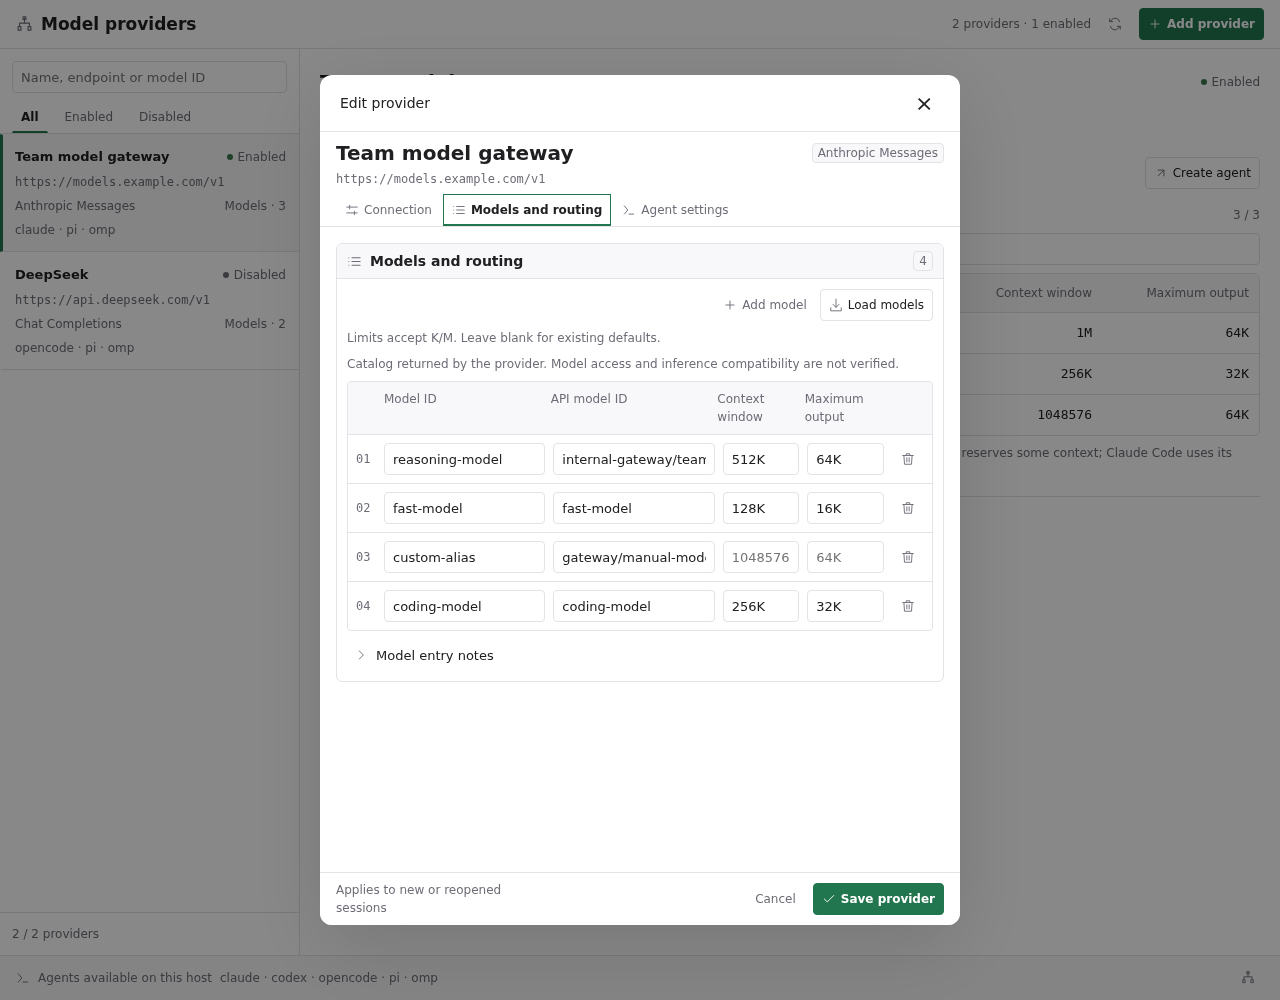
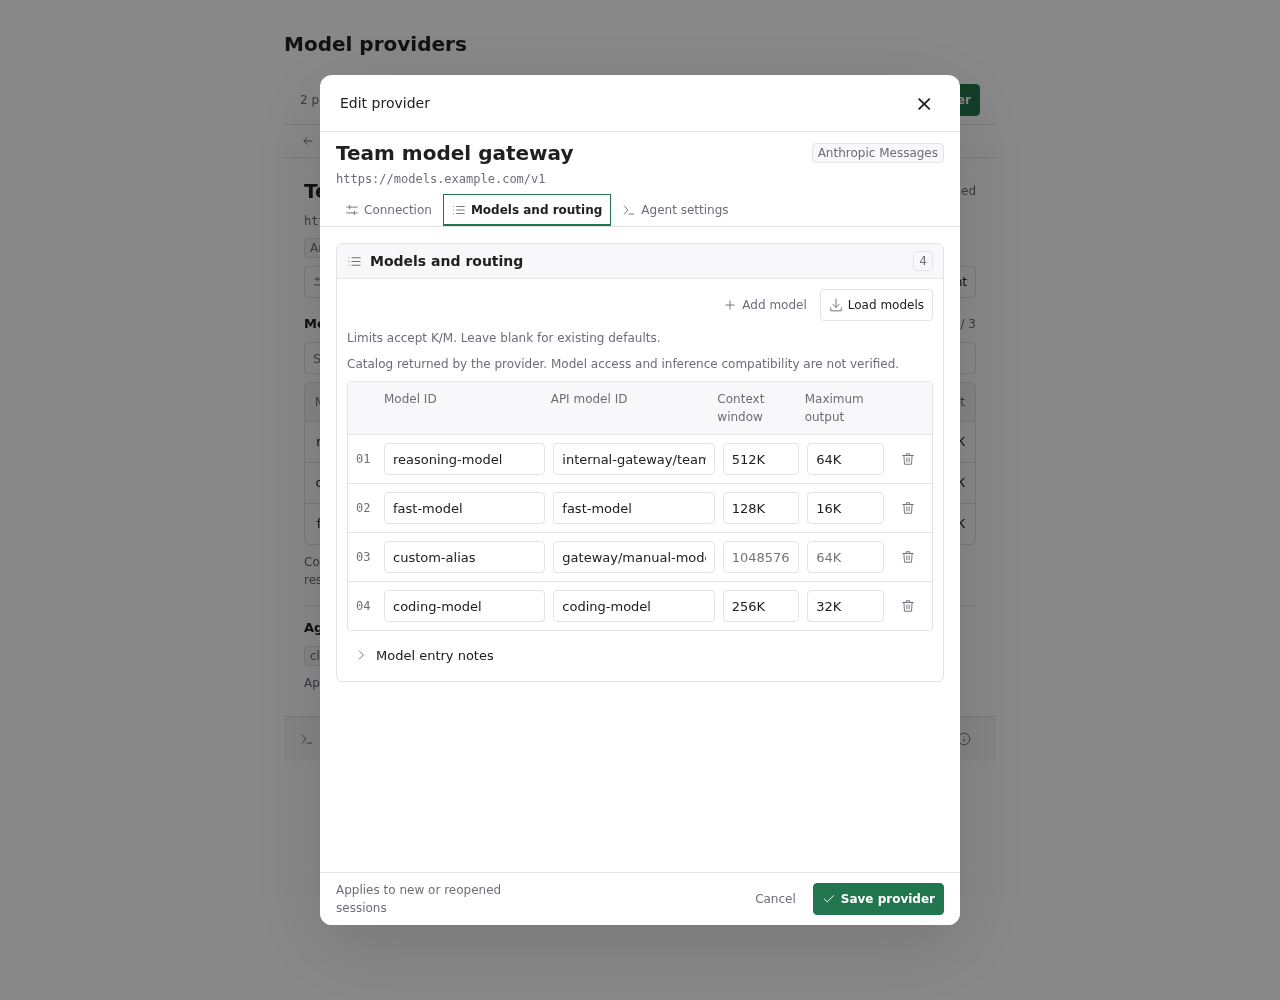
feat: move model providers into settings

diff --git a/client/providers.tsx b/client/providers.tsx
@@ -1,6 +1,6 @@
 import { useState } from "react";
-import { ActivityIndicator, ScrollView, Text, View, useWindowDimensions } from "react-native";
-import type { PluginScreenProps } from "@getpaseo/plugin/client";
+import { ActivityIndicator, Text, View } from "react-native";
+import type { PluginSurfaceProps } from "@getpaseo/plugin/client";
 import { usePaseo, useRpc } from "@getpaseo/plugin/client";
 import { Icon } from "@getpaseo/plugin/client/react-native";
 import { useQuery } from "@tanstack/react-query";
@@ -14,11 +14,11 @@ import { Action, Field, workbenchStyles } from "./ui";
 import { translate } from "./messages";
 import { useSystemLanguage } from "./language";
 
-export function ProvidersScreen({ theme, layout, navigation }: PluginScreenProps) {
+export function ProvidersScreen({ theme, layout, navigation }: PluginSurfaceProps) {
   const language = useSystemLanguage();
   const t = (message: string) => translate(message, language);
   const styles = workbenchStyles(theme), c = theme.colors;
-  const { width } = useWindowDimensions();
+  const [width, setWidth] = useState(0);
   const split = !layout.compact && width >= 1000;
   const paseo = usePaseo();
   const load = useRpc(stateRpc), probe = useRpc(probeRpc);
@@ -48,11 +48,9 @@ export function ProvidersScreen({ theme, layout, navigation }: PluginScreenProps
     finally { setTesting(current => { const next = { ...current }; delete next[item.id]; return next; }); }
   }
   const showList = split || !selected;
-  return <View style={styles.page}>
+  return <View onLayout={event => setWidth(event.nativeEvent.layout.width)} style={{ minWidth: 0, backgroundColor: c.surface0 }}>
     <View style={{ ...styles.toolbar, flexWrap: "nowrap", paddingHorizontal: layout.compact ? 12 : 16, paddingVertical: 8, borderBottomWidth: 1, borderColor: c.border }}>
-      <Icon name="Network" size={17} color={c.foregroundMuted} />
-      <Text accessibilityRole="header" numberOfLines={1} style={{ ...styles.text, fontWeight: "700", fontSize: 17, flex: 1 }}>{t("模型供应商")}</Text>
-      {!layout.compact && state.data ? <Text style={styles.muted}>{suppliers.length} {t("个供应商 ·")} {suppliers.filter(item => item.enabled).length} {t("个启用")}</Text> : null}
+      {state.data ? <Text style={{ ...styles.muted, flex: 1 }}>{suppliers.length} {t("个供应商 ·")} {suppliers.filter(item => item.enabled).length} {t("个启用")}</Text> : <View style={{ flex: 1 }} />}
       <Action theme={theme} label={t("刷新")} icon="RefreshCw" iconOnly quiet disabled={state.isFetching || available.isFetching} onPress={refresh} />
       <Action theme={theme} label={t("新增供应商")} icon="Plus" primary iconOnly={layout.compact} disabled={!state.data} onPress={() => edit()} />
     </View>
@@ -61,38 +59,38 @@ export function ProvidersScreen({ theme, layout, navigation }: PluginScreenProps
       <Text style={{ ...styles.text, flex: 1 }}>{t("无法读取供应商配置")} · {t("请检查当前主机连接后重试。")}</Text>
       <Action theme={theme} label={t("重新加载")} icon="RefreshCw" disabled={state.isFetching} onPress={() => void state.refetch()} />
     </View> : null}
-    {state.isPending ? <View style={{ flex: 1, alignItems: "center", justifyContent: "center", gap: 12 }}>
+    {state.isPending ? <View style={{ padding: 24, alignItems: "center", justifyContent: "center", gap: 12 }}>
       <ActivityIndicator color={c.accent} /><Text style={styles.muted}>{t("正在读取供应商配置…")}</Text>
     </View> : null}
-    {state.data ? <View style={{ flex: 1, minHeight: 0, flexDirection: split ? "row" : "column" }}>
-      {showList ? <View style={{ width: split ? 300 : undefined, flex: split ? undefined : 1, minHeight: 0, borderRightWidth: split ? 1 : 0, borderColor: c.border }}>
+    {state.data ? <View style={{ minWidth: 0, flexDirection: split ? "row" : "column" }}>
+      {showList ? <View style={{ width: split ? 300 : undefined, minWidth: 0, borderRightWidth: split ? 1 : 0, borderColor: c.border }}>
         <View style={{ paddingHorizontal: 12, paddingTop: 12, gap: 8, borderBottomWidth: 1, borderColor: c.border }}>
           <Field theme={theme} label={t("搜索供应商")} hideLabel placeholder={t("名称、地址或模型 ID")} value={query} onChangeText={setQuery} autoCapitalize="none" autoCorrect={false} />
           <View accessibilityRole="tablist" style={styles.toolbar}>
             {([["all", "全部"], ["enabled", "已启用"], ["disabled", "已停用"]] as const).map(([id, label]) => <Action key={id} theme={theme} label={t(label)} selected={filter === id} onPress={() => setFilter(id)} />)}
           </View>
         </View>
-        <ScrollView style={{ flex: 1, minHeight: 0 }} keyboardShouldPersistTaps="handled">
+        <View>
           {visible.map(supplier => <SupplierRow key={supplier.id} theme={theme} supplier={supplier} selected={selected?.id === supplier.id} t={t} onPress={() => setSelectedId(supplier.id)} />)}
           {!visible.length ? <View style={{ padding: 16, gap: 8 }}>
             <Text accessibilityRole="header" style={{ ...styles.text, fontWeight: "600" }}>{suppliers.length ? t("没有匹配的供应商") : t("接入你的第一个模型接口")}</Text>
             <Text style={styles.muted}>{suppliers.length ? t("尝试其他关键词或切换筛选条件。") : t("点击右上方「新增供应商」，填写接口和模型，选择可接入的 Agent 即可开始。")}</Text>
           </View> : null}
-        </ScrollView>
+        </View>
         <View style={{ padding: 12, borderTopWidth: 1, borderColor: c.border }}>
           <Text style={styles.muted}>{visible.length} / {suppliers.length} {t("供应商")}</Text>
         </View>
       </View> : null}
-      {selected ? <View style={{ flex: 1, minWidth: 0, minHeight: 0 }}>
+      {selected ? <View style={{ flex: split ? 1 : undefined, minWidth: 0 }}>
         {!split ? <View style={{ ...styles.toolbar, paddingHorizontal: 8, borderBottomWidth: 1, borderColor: c.border }}>
           <Action theme={theme} label={t("返回供应商列表")} icon="ArrowLeft" quiet onPress={() => setSelectedId(null)} />
         </View> : null}
-        <ScrollView style={{ flex: 1, minHeight: 0 }} contentContainerStyle={{ padding: layout.compact ? 12 : 20, paddingBottom: 24 }}>
+        <View style={{ padding: layout.compact ? 12 : 20, paddingBottom: 24 }}>
           <View style={{ width: "100%", maxWidth: 1120, alignSelf: "center" }}>
-            <SupplierDetail key={selected.id} theme={theme} compact={layout.compact || !split} supplier={selected} t={t} testing={Boolean(testing[selected.id])} result={results[selected.id]}
+            <SupplierDetail key={selected.id} theme={theme} compact={layout.compact || width < 700} supplier={selected} t={t} testing={Boolean(testing[selected.id])} result={results[selected.id]}
               onEdit={() => edit(selected)} onTest={() => void test(selected)} onLaunch={() => setLaunch(selected)} />
           </View>
-        </ScrollView>
+        </View>
       </View> : split ? <View style={{ flex: 1, padding: 24, justifyContent: "center", alignItems: "center", gap: 8 }}>
         <Icon name="Network" size={28} color={c.foregroundMuted} />
         <Text style={styles.muted}>{t("选择供应商查看模型、容量与 Agent 设置。")}</Text>

diff --git a/index.client.tsx b/index.client.tsx
@@ -1,16 +1,11 @@
-import type { PluginClientContext, PluginSidebarItemProps } from "@getpaseo/plugin/client";
-import { SidebarRow } from "@getpaseo/plugin/client/ui";
+import type { PluginClientContext } from "@getpaseo/plugin/client";
 import { ProvidersScreen } from "./client/providers";
-import { getSystemLanguage, useSystemLanguage } from "./client/language";
+import { getSystemLanguage } from "./client/language";
 import { translate } from "./client/messages";
-function Entry({ currentScreen, openScreen }: PluginSidebarItemProps) {
-  const language = useSystemLanguage();
-  return <SidebarRow label={translate("模型供应商", language)} icon="Network" active={currentScreen?.screenId === "providers"} onPress={() => openScreen({ screenId: "providers" })} />;
-}
+
 export default function contribute(client: PluginClientContext) {
-  const title = () => translate("模型供应商", getSystemLanguage());
-  client.addScreen({ id: "providers", title, Component: ProvidersScreen });
-  client.addSidebarHeaderItem({ id: "providers", title: title(), Component: Entry });
-  client.addCommandCenterItem({ id: "open-providers", title: title(), icon: "Network", context: "global", onSelect: ({ openScreen }) => openScreen({ screenId: "providers" }) });
+  const title = translate("模型供应商", getSystemLanguage());
+  client.addSettingsScreen({ id: "providers", title, icon: "Network", Component: ProvidersScreen });
+  client.addCommandCenterItem({ id: "open-providers", title, icon: "Network", context: "global", onSelect: ({ openSettings }) => openSettings("providers") });
   return () => {};
 }

diff --git a/client/ui.tsx b/client/ui.tsx
@@ -9,7 +9,6 @@ export const mono = Platform.OS === "ios" ? "Menlo" : "monospace";
 export function workbenchStyles(theme: Theme) {
   const c = theme.colors;
   return {
-    page: { flex: 1, minWidth: 0, minHeight: 0, backgroundColor: c.surface0 },
     toolbar: { flexDirection: "row" as const, alignItems: "center" as const, flexWrap: "wrap" as const, gap: 8 },
     text: { color: c.foreground, fontSize: sizes.body, lineHeight: 20 },
     muted: { color: c.foregroundMuted, fontSize: sizes.caption, lineHeight: 18 },

diff --git a/OVERVIEW.md b/OVERVIEW.md
@@ -1,10 +1,10 @@
-Model providers manages API endpoints, credentials and selected models for Claude Code, Codex, OpenCode, Pi and OMP in Paseo. It adds independent provider entries to Paseo's normal agent picker and a screen for configuring providers and starting sessions. Existing subscription logins and agent presets remain available; custom APIs use the selected provider's API quota.
+Model providers manages API endpoints, credentials and selected models for Claude Code, Codex, OpenCode, Pi and OMP in Paseo. It adds independent provider entries to Paseo's normal agent picker and a settings page for configuring providers and starting sessions. Existing subscription logins and agent presets remain available; custom APIs use the selected provider's API quota.
 
-Requires Paseo 0.12.0 or newer on the daemon and clients, and each selected agent CLI already installed on the daemon's PATH. The plugin does not install external software at runtime. The interface and sidebar label follow the device language, supporting English and Simplified Chinese with English fallback. Paseo 0.12.0 does not expose the app's manual language preference to plugins.
+Requires Paseo 0.12.0 or newer on the daemon and clients, and each selected agent CLI already installed on the daemon's PATH. The plugin does not install external software at runtime. The interface and settings entry follow the device language, supporting English and Simplified Chinese with English fallback. Paseo 0.12.0 does not expose the app's manual language preference to plugins.
 
 New providers can start from a DeepSeek preset. All default settings, including the API base URL, remain editable for compatible gateways. Preset changes clear the entered key. Optional per-model mappings keep aliases in the picker while agents and connection tests send the mapped API IDs. DeepSeek, Anthropic and OpenRouter catalog metadata is retained when returned; context and output limits are configured per model row, not shared across selected models. Loading fills missing capacity fields from metadata while retaining manual values. Codex uses a native model catalog for each mapped model’s context window; OpenCode and Pi/OMP receive context and output limits; blank fields fall back to legacy provider defaults. Preset capacities are defaults, not guarantees about custom gateways.
 
-The compact workbench supports provider search by name, endpoint, alias, API model ID or agent, plus enabled-status filters. Wide windows show the provider list beside model routing, per-model limits and agent details; narrow windows provide list/detail navigation. Add or edit a provider in a host popup with a summary header and separate connection, model and agent tabs. Desktop model rows use a compact table, while mobile rows keep labeled fields. Closing an edited form asks before discarding changes; pending loads and saves lock editing and dismissal. Tab changes preserve drafts, validation returns to the relevant tab, and the save footer remains visible. Choose its protocol and edit one model per form row. Load models fills the form automatically, preserving manual entries and mappings; rows can be added or removed individually, up to 100 models per provider. Anthropic Messages supports Claude Code, OpenCode, Pi and OMP; OpenAI Responses supports Codex, Pi and OMP; Chat Completions supports OpenCode, Pi and OMP. Anthropic authentication supports either x-api-key or Bearer tokens. The plugin does not translate between protocols. Changes apply to new or reopened sessions, without switching a running session's endpoint. Disabling a provider does not stop existing sessions.
+The compact workbench supports provider search by name, endpoint, alias, API model ID or agent, plus enabled-status filters. The settings column provides list/detail navigation; a sufficiently wide content area shows the list beside its details. The page is available under Settings → Plugins → Model providers and from the Command Center, with no homepage sidebar entry. Add or edit a provider in a host popup with a summary header and separate connection, model and agent tabs. Desktop model rows use a compact table, while mobile rows keep labeled fields. Closing an edited form asks before discarding changes; pending loads and saves lock editing and dismissal. Tab changes preserve drafts, validation returns to the relevant tab, and the save footer remains visible. Choose its protocol and edit one model per form row. Load models fills the form automatically, preserving manual entries and mappings; rows can be added or removed individually, up to 100 models per provider. Anthropic Messages supports Claude Code, OpenCode, Pi and OMP; OpenAI Responses supports Codex, Pi and OMP; Chat Completions supports OpenCode, Pi and OMP. Anthropic authentication supports either x-api-key or Bearer tokens. The plugin does not translate between protocols. Changes apply to new or reopened sessions, without switching a running session's endpoint. Disabling a provider does not stop existing sessions.
 
 Codex requires a CLI supporting `codex debug models --bundled` (verified with 0.160.1). Saving builds a local catalog from that installed CLI’s model instructions and tools, with the configured per-model context windows. Its native reserve remains in effect: a 1,000,000-token window currently reports 950,000 usable tokens. The output-limit field does not configure Codex or Claude Code; Claude Code also keeps its own context rules. After updating this plugin, save existing providers again and reopen sessions to refresh the generated configuration.
 

diff --git a/OVERVIEW.zh-CN.md b/OVERVIEW.zh-CN.md
@@ -1,6 +1,6 @@
 模型供应商管理在 Paseo 中集中保存模型接口地址、协议、凭据与模型列表，并为 Claude Code、Codex、OpenCode、Pi 和 OMP 创建独立接入配置。
 
-页面采用紧凑工作台，支持按名称、接口地址、模型别名、实际请求 ID 和 Agent 搜索，并按启用状态筛选。宽屏并列展示列表与详情，窄屏通过返回按钮切换；详情可直接查看模型路由、每模型容量及 Agent。编辑模型在桌面使用紧凑表格，手机保留分组字段。关闭有修改的表单会确认是否放弃，模型加载或保存过程中锁定编辑和关闭。
+页面采用紧凑工作台，支持按名称、接口地址、模型别名、实际请求 ID 和 Agent 搜索，并按启用状态筛选。入口位于「设置 → 插件 → 模型供应商」，命令中心也可打开同一设置页，主页侧边栏不再展示入口。设置栏内通过返回按钮切换列表与详情，内容区域足够宽时并列展示；详情可直接查看模型路由、每模型容量及 Agent。编辑模型在桌面使用紧凑表格，手机保留分组字段。关闭有修改的表单会确认是否放弃，模型加载或保存过程中锁定编辑和关闭。
 
 Anthropic 鉴权可选 x-api-key 或 Bearer Token。
 
@@ -18,6 +18,6 @@ Codex 需要支持 `codex debug models --bundled` 的 CLI（已验证 0.160.1）
 
 Pi/OMP 使用独立的本机扩展注册模型，保留原有用户目录与扩展。新模型按文本输入、无额外推理配置，不声明多模态和准确计费；成本字段为 0 表示未知，而不是免费。上下文与输出上限由用户按模型规格填写，支持完整 Token 数或 K/M 简写（1K = 1000 Token）。Agent CLI 必须已安装且对 daemon 可见，Paseo daemon 与客户端需 0.12.0 或更新版本。自定义供应商的实际兼容性以连接测试及真实 Agent 验证为准。
 
-界面和侧边栏标题自动跟随设备语言，支持简体中文，其他语言回退为英文；Paseo 0.12.0 尚未向插件开放应用内手动设置的语言。编辑器使用宿主弹窗，不修改宿主网页节点。
+界面和设置入口标题自动跟随设备语言，支持简体中文，其他语言回退为英文；Paseo 0.12.0 尚未向插件开放应用内手动设置的语言。编辑器使用宿主弹窗，不修改宿主网页节点。
 
 启动自定义 Agent 后，其提示词、代码上下文和工具执行结果会按该 Agent 的行为发送到所配置的模型供应商。供应商接口与数据策略由使用者选择。本插件无需运行时安装其他软件。

diff --git a/README.md b/README.md
@@ -24,9 +24,9 @@ Requires Paseo **0.12.0+** on the daemon and clients, with the agent CLIs alread
 paseo plugin add hulkzzhou1/model-providers
 ```
 
-The screen uses a compact workbench: search providers by name, endpoint, model alias, API model ID or agent, and filter by enabled status. Wide windows show a provider list beside its details; narrower windows open details with a back action. The detail view shows model routing and each model’s limits without opening the editor.
+The screen uses a compact workbench: search providers by name, endpoint, model alias, API model ID or agent, and filter by enabled status. The settings column opens provider details with a back action; a sufficiently wide content area shows the list beside its details. The detail view shows model routing and each model’s limits without opening the editor.
 
-Open **Model providers** in the sidebar. The screen and sidebar label follow the device language, using Simplified Chinese when supported and English otherwise. Paseo 0.12.0 does not expose the app's manual language preference to plugins.
+Open **Settings → Plugins → Model providers**. The Command Center shortcut opens the same settings page. The page and settings entry follow the device language, using Simplified Chinese when supported and English otherwise. Paseo 0.12.0 does not expose the app's manual language preference to plugins.
 
 1. Select **Add provider** and choose **Custom** or the **DeepSeek** preset. Presets fill in defaults; the name, protocol, API base URL, models and limits remain editable. You can use a compatible proxy or gateway URL. Enter your API key after selecting a preset.
 2. Select **Load models** to fill the model form automatically from the standard model endpoint. Use **Add model** for manual entries and remove rows you do not want to enable. Each row has a model ID and an optional API model ID; no comma-separated or multiline input is needed.

diff --git a/docs/workbench-validation.md b/docs/workbench-validation.md
@@ -1,5 +1,7 @@
 # Supplier workbench validation
 
+The page is registered under Settings → Plugins → Model providers; the Command Center opens the same settings route. It contributes no homepage sidebar item or standalone screen. Paseo owns settings scrolling and the centered column; the provider layout measures its own available width.
+
 The workbench adopts the compact toolbars, list/detail separation, neutral panels and draft protection used by the local TAPD and Gongfeng plugins. It keeps Paseo's own modal presentation and existing 0.12 SDK contract.
 
 ## Changed boundaries
@@ -16,7 +18,7 @@ No server, RPC contract, provider adapter, persisted supplier schema or generate
 
 ## Checks
 
-`npm run typecheck`, `npm test` and `git diff --check` pass. Translation checks now inspect Chinese string literals in every client TSX file, including labels stored in tab arrays. Provider filtering tests cover URL, model alias, mapped API ID, agent, combined status filters, empty results and preservation of the original records.
+`npm run typecheck`, `npm test` and `git diff --check` pass. Translation checks now inspect Chinese string literals in every client TSX file, including labels stored in tab arrays. The entry test checks settings registration in both languages, rejects sidebar/standalone-screen registration and verifies Command Center navigation to settings. Provider filtering tests cover URL, model alias, mapped API ID, agent, combined status filters, empty results and preservation of the original records.
 
 Browser checks render the actual components with synthetic React Native, Paseo and RPC fixtures. They are interaction and layout checks, not native-device certification or real supplier inference tests.
 
